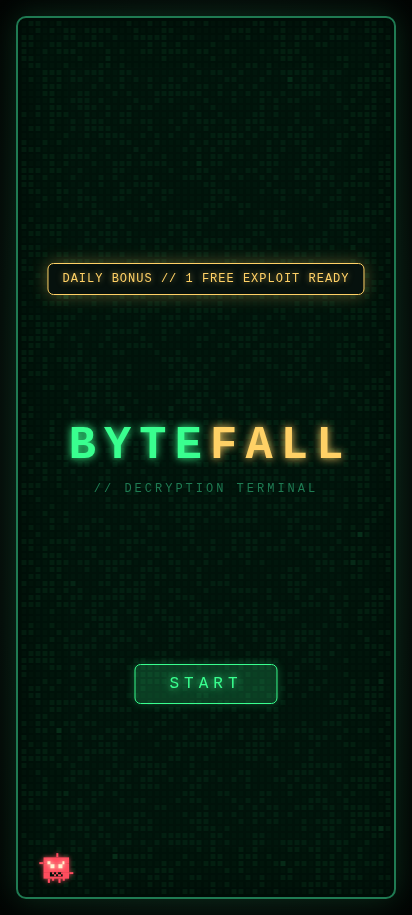
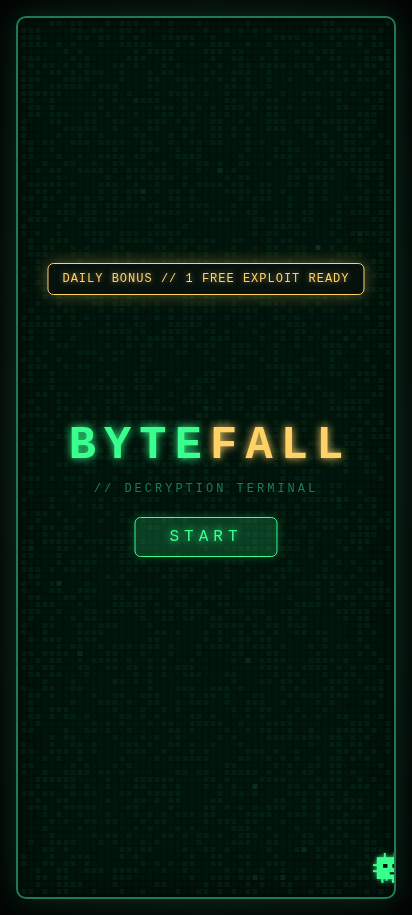
START under the tagline; wanderer fixes
START now sits as far under the tagline as the tagline sits under the
title, measured on the drawn letters so it holds in every font.

Wanderers:
- The game card's bots wait while the start screen covers the card.
- Spots avoid bots standing and bots already headed somewhere, with
  fallbacks beside the others, so four bots on a narrow card no longer
  stand on top of each other.
- A meeting's shuffle stays on the card.
- Only bots on the card get startled; one walking in keeps coming.
- A start or a poke ends a run, so there is no catch-your-breath after.
- A poked bot no longer keeps shaking if it bolts or departs mid-poke,
  and it isn't picked to leave mid-poke.
- Extra bots leave one at a time, not all at once.
- The lane width is read once a frame, the sim waits while the lane is
  0px wide, and bots standing past a narrowed lane step back in.
v202.

diff --git a/js/wanderers.js b/js/wanderers.js
@@ -50,7 +50,9 @@ function createWanderers(lane, active = () => true) {
   let want = 1 + Math.floor(Math.random() * 4);
   let nextSpawn = performance.now() + 400;
   let nextReroll = performance.now() + rand(8000, 15000);
-  const laneW = () => lane.clientWidth;
+  let nextDepart = 0; // (too many: they go one at a time, not all at once)
+  let width = lane.clientWidth; // (read once a frame: reading it between moves forces a layout)
+  const laneW = () => width;
   const inside = (w) => w.x >= 0 && w.x <= laneW() - SIZE;
 
   // emote: text to show, or true to pick one that fits the face (and the bot)
@@ -64,13 +66,27 @@ function createWanderers(lane, active = () => true) {
     w.emote.textContent = emote;
     w.emote.classList.toggle('show', !!emote);
   }
-  // A spot to stand that isn't on top of anyone standing still
+  // A spot to stand that isn't on top of anyone standing still or already headed somewhere (the
+  // first clear one of a few tries; in a crowd, the one with the most room)
   function freeSpot(w) {
-    for (let k = 0; k < 8; k++) {
-      const x = rand(12, laneW() - SIZE - 12);
-      if (!walkers.some((o) => o !== w && o.state !== 'walk' && Math.abs(o.x - x) < APART)) return x;
+    const taken = walkers.filter((o) => o !== w && !o.leaving).map((o) => (o.state === 'walk' ? o.target : o.x));
+    const hi = Math.max(12, laneW() - SIZE - 12);
+    let best = rand(12, hi);
+    let room = -1;
+    const roomAt = (x) => Math.min(Infinity, ...taken.map((t) => Math.abs(t - x)));
+    for (let k = 0; k < 16; k++) {
+      const x = rand(12, hi);
+      const r = roomAt(x);
+      if (r >= APART) return x;
+      if (r > room) { room = r; best = x; }
     }
-    return rand(12, laneW() - SIZE - 12);
+    // (a crowd on a narrow card: the spots just beside the others, then either end)
+    for (const x of [...taken.flatMap((t) => [t - APART, t + APART]), 12, hi]) {
+      if (x < 12 || x > hi) continue;
+      const r = roomAt(x);
+      if (r > room) { room = r; best = x; }
+    }
+    return best;
   }
 
   function spawn(now) {
@@ -115,7 +131,8 @@ function createWanderers(lane, active = () => true) {
   // Those near a sudden pop, decrypt or bolt face it, startled (cutting any meeting short)
   // A meeting cut short leaves the partner out of range put out: -_-
   function startle(src, now) {
-    const near = (o) => o !== src && !o.leaving && o.state !== 'vanish' && o.state !== 'startled' && Math.abs(o.x - src.x) <= RADIUS;
+    // (only those on the card: one still walking in doesn't freeze out of sight)
+    const near = (o) => o !== src && !o.leaving && o.state !== 'vanish' && o.state !== 'startled' && inside(o) && Math.abs(o.x - src.x) <= RADIUS;
     let startled = 0;
     for (const o of walkers) {
       if (!near(o)) continue;
@@ -134,6 +151,7 @@ function createWanderers(lane, active = () => true) {
       }
       mood(o, 'surprised', pick(['!', '!?', '?!']));
       o.state = 'idle';
+      o.winded = o.running = false; // (a start stops a run: no catching its breath after)
       o.look = src.x > o.x ? 1 : -1;
       o.until = now + rand(1100, 1700);
       o.el.classList.remove('hopping', 'shaking');
@@ -162,6 +180,7 @@ function createWanderers(lane, active = () => true) {
     const id = (w.pokeId = (w.pokeId || 0) + 1);
     const still = () => w.pokeId === id && w.state === 'poked' && !w.gone;
     w.state = 'poked';
+    w.winded = w.running = false;
     w.look = 0;
     w.until = now + 3000;
     mood(w, 'annoyed', pick(['hey!', '-_-', '!!']));
@@ -214,7 +233,9 @@ function createWanderers(lane, active = () => true) {
     w.dir = w.look = target > w.x ? 1 : -1;
     w.state = 'walk';
     w.running = running;
+    w.winded = false; // (only an arrival at a run ends out of breath)
     w.partner = null;
+    w.el.classList.remove('shaking');
   }
   function leave(w, running = false) {
     w.leaving = true;
@@ -223,6 +244,7 @@ function createWanderers(lane, active = () => true) {
   // Spooked: a start (and a !), then off the card at a sprint; anyone near flinches
   function fright(w, now) {
     mood(w, 'scared', pick(['!', '!!', '!?']));
+    w.el.classList.remove('shaking', 'hopping');
     w.state = 'startled';
     w.leaving = true; // (off it goes once the start is over)
     w.until = now + 450;
@@ -240,6 +262,11 @@ function createWanderers(lane, active = () => true) {
     }
     const dt = Math.min(0.05, (now - last) / 1000);
     last = now;
+    width = lane.clientWidth;
+    if (!width) { // (its card is out of sight: wait, rather than walk to spots on a 0px lane)
+      requestAnimationFrame(frame);
+      return;
+    }
     if (now > nextReroll) {
       want = 1 + Math.floor(Math.random() * 4);
       nextReroll = now + rand(8000, 15000);
@@ -252,11 +279,16 @@ function createWanderers(lane, active = () => true) {
     if (staying.length < want && now > nextSpawn) {
       spawn(now);
       nextSpawn = now + rand(1500, 4500);
-    } else if (staying.length > want) {
-      const w = staying.find((x) => x.state !== 'meet');
-      if (w) depart(w, now);
+    } else if (staying.length > want && now > nextDepart) {
+      const w = staying.find((x) => x.state !== 'meet' && x.state !== 'poked');
+      if (w) {
+        depart(w, now);
+        nextDepart = now + rand(1200, 3000);
+      }
     }
     for (const w of walkers) {
+      // (the lane got narrower, say on a turn of the phone: whoever stands past its end steps in)
+      if (w.state !== 'walk' && !w.leaving && w.x > laneW() - SIZE) w.x = Math.max(0, laneW() - SIZE);
       if (w.state === 'walk') {
         const pace = w.running ? 3.4 : 1;
         const step = w.speed * pace * dt * (w.bot === 'glitch' && Math.random() < 0.08 ? 3 : 1); // (GLITCH lurches)
@@ -292,8 +324,8 @@ function createWanderers(lane, active = () => true) {
         // Shuffle to a body's width apart, facing each other
         const o = w.partner;
         if (o) {
-          const want = o.x + (w.x < o.x ? -APART : APART);
-          const gap = want - w.x;
+          const spot = Math.min(laneW() - SIZE, Math.max(0, o.x + (w.x < o.x ? -APART : APART))); // (never off the card)
+          const gap = spot - w.x;
           if (Math.abs(gap) > 0.5) w.x += Math.sign(gap) * Math.min(Math.abs(gap), 30 * dt);
           w.look = o.x > w.x ? 1 : -1;
         }
@@ -346,11 +378,12 @@ function createWanderers(lane, active = () => true) {
     if (running || window.matchMedia('(prefers-reduced-motion: reduce)').matches) return;
     running = true;
     last = performance.now();
+    width = lane.clientWidth;
     nextSpawn = last + 400;
     requestAnimationFrame(frame);
   }
   start();
-  // (start: after being switched back on; list / startle: for the dev tests)
-  return { start, list: () => walkers, startle: (w) => startle(w, performance.now()) };
+  // (start: after being switched back on; list / startle / crowd: for the dev tests)
+  return { start, list: () => walkers, startle: (w) => startle(w, performance.now()), crowd: (n) => { want = n; nextReroll = performance.now() + 60000; } };
 
 }

diff --git a/index.html b/index.html
@@ -24,7 +24,7 @@
   } catch (e) {}
 </script>
 <title>BYTEFALL // decryption terminal</title>
-<link rel="stylesheet" href="css/style.css?v=201">
+<link rel="stylesheet" href="css/style.css?v=202">
 </head>
 <body>
   <!-- Dev: TWINKLE BACKGROUND (grid-bg.js): the starlight behind the whole game, off by default -->
@@ -544,31 +544,31 @@
     </div>
   </div>
 
-  <script src="js/unlocks.js?v=201"></script>
-  <script src="js/progress.js?v=201"></script>
-  <script src="js/sfx.js?v=201"></script>
-  <script src="js/music/music-bytefall-theme.js?v=201"></script>
-  <script src="js/music/music-sleep-mode.js?v=201"></script>
-  <script src="js/music/music-brute-force.js?v=201"></script>
-  <script src="js/music/music-deep-web.js?v=201"></script>
-  <script src="js/music/music-zero-day.js?v=201"></script>
-  <script src="js/music/music-system-restore.js?v=201"></script>
-  <script src="js/music/music-night-drive.js?v=201"></script>
-  <script src="js/music/music-standby-mode.js?v=201"></script>
-  <script src="js/music/music-core-dump.js?v=201"></script>
-  <script src="js/music/music-handshake.js?v=201"></script>
-  <script src="js/music/music.js?v=201"></script>
-  <script src="js/data/puzzles.js?v=201"></script>
-  <script src="js/data/daily-puzzles.js?v=201"></script>
-  <script src="js/cpu.js?v=201"></script>
-  <script src="js/fx.js?v=201"></script>
-  <script src="js/viz.js?v=201"></script>
-  <script src="js/minibot.js?v=201"></script>
-  <script src="js/wanderers.js?v=201"></script>
-  <script src="js/tutorial.js?v=201"></script>
-  <script src="js/script.js?v=201"></script>
-  <script src="js/grid-bg.js?v=201"></script>
-  <script src="js/player.js?v=201"></script>
-  <script src="js/start.js?v=201"></script>
+  <script src="js/unlocks.js?v=202"></script>
+  <script src="js/progress.js?v=202"></script>
+  <script src="js/sfx.js?v=202"></script>
+  <script src="js/music/music-bytefall-theme.js?v=202"></script>
+  <script src="js/music/music-sleep-mode.js?v=202"></script>
+  <script src="js/music/music-brute-force.js?v=202"></script>
+  <script src="js/music/music-deep-web.js?v=202"></script>
+  <script src="js/music/music-zero-day.js?v=202"></script>
+  <script src="js/music/music-system-restore.js?v=202"></script>
+  <script src="js/music/music-night-drive.js?v=202"></script>
+  <script src="js/music/music-standby-mode.js?v=202"></script>
+  <script src="js/music/music-core-dump.js?v=202"></script>
+  <script src="js/music/music-handshake.js?v=202"></script>
+  <script src="js/music/music.js?v=202"></script>
+  <script src="js/data/puzzles.js?v=202"></script>
+  <script src="js/data/daily-puzzles.js?v=202"></script>
+  <script src="js/cpu.js?v=202"></script>
+  <script src="js/fx.js?v=202"></script>
+  <script src="js/viz.js?v=202"></script>
+  <script src="js/minibot.js?v=202"></script>
+  <script src="js/wanderers.js?v=202"></script>
+  <script src="js/tutorial.js?v=202"></script>
+  <script src="js/script.js?v=202"></script>
+  <script src="js/grid-bg.js?v=202"></script>
+  <script src="js/player.js?v=202"></script>
+  <script src="js/start.js?v=202"></script>
 </body>
 </html>

diff --git a/js/start.js b/js/start.js
@@ -25,6 +25,7 @@
       black.classList.add('on');
       setTimeout(() => {
         screen.hidden = true;
+        if (typeof gameWalkers !== 'undefined') gameWalkers.start(); // (the game card's, held while this was up)
         if (firstTime()) {
           try { localStorage.setItem(INTRO_KEY, '1'); } catch (e) {}
           // The first open: straight into the tutorial (it can be left any time with EXIT)
@@ -48,6 +49,36 @@
 
   const startBtn = document.getElementById('start-btn');
   startBtn.addEventListener('click', start);
+
+  // START sits under the tagline as far as the tagline sits under the title, measured letter to
+  // letter (the drawn letters, not their line boxes, which differ from font to font)
+  const card = screen.querySelector('.start-card');
+  const title = screen.querySelector('.start-title h1');
+  const tagline = screen.querySelector('.start-tagline');
+  const measure = document.createElement('canvas').getContext('2d');
+  function ink(el) {
+    const cs = getComputedStyle(el);
+    measure.font = `${cs.fontStyle} ${cs.fontWeight} ${cs.fontSize} ${cs.fontFamily}`;
+    const m = measure.measureText(el.textContent);
+    const range = document.createRange();
+    range.selectNodeContents(el);
+    const baseline = range.getBoundingClientRect().top + m.fontBoundingBoxAscent;
+    return { top: baseline - m.actualBoundingBoxAscent, bottom: baseline + m.actualBoundingBoxDescent };
+  }
+  function placeStart() {
+    if (screen.hidden || !measure || !('fontBoundingBoxAscent' in TextMetrics.prototype)) return;
+    const head = ink(title);
+    const tag = ink(tagline);
+    const top = tag.bottom + (tag.top - head.bottom) - card.getBoundingClientRect().top - card.clientTop;
+    startBtn.style.top = `${Math.round(top)}px`;
+    startBtn.style.bottom = 'auto';
+  }
+  placeStart();
+  window.addEventListener('resize', placeStart);
+  if (document.fonts) {
+    document.fonts.ready.then(placeStart);
+    document.fonts.addEventListener('loadingdone', placeStart);
+  }
   // While it's up, keys don't reach the game; Enter and Space start
   document.addEventListener('keydown', (e) => {
     if (screen.hidden) return;

diff --git a/dev-tools/audio.html b/dev-tools/audio.html
@@ -284,18 +284,18 @@
   <footer>GENERATED FROM SOURCE &mdash; NO AUDIO FILES, ALL SYNTHESIZED ON PLAY</footer>
 </div>
 
-<script src="../js/sfx.js?v=201"></script>
-<script src="../js/music/music-bytefall-theme.js?v=201"></script>
-<script src="../js/music/music-sleep-mode.js?v=201"></script>
-<script src="../js/music/music-brute-force.js?v=201"></script>
-<script src="../js/music/music-deep-web.js?v=201"></script>
-<script src="../js/music/music-zero-day.js?v=201"></script>
-<script src="../js/music/music-system-restore.js?v=201"></script>
-<script src="../js/music/music-night-drive.js?v=201"></script>
-<script src="../js/music/music-standby-mode.js?v=201"></script>
-<script src="../js/music/music-core-dump.js?v=201"></script>
-<script src="../js/music/music-handshake.js?v=201"></script>
-<script src="../js/viz.js?v=201"></script>
+<script src="../js/sfx.js?v=202"></script>
+<script src="../js/music/music-bytefall-theme.js?v=202"></script>
+<script src="../js/music/music-sleep-mode.js?v=202"></script>
+<script src="../js/music/music-brute-force.js?v=202"></script>
+<script src="../js/music/music-deep-web.js?v=202"></script>
+<script src="../js/music/music-zero-day.js?v=202"></script>
+<script src="../js/music/music-system-restore.js?v=202"></script>
+<script src="../js/music/music-night-drive.js?v=202"></script>
+<script src="../js/music/music-standby-mode.js?v=202"></script>
+<script src="../js/music/music-core-dump.js?v=202"></script>
+<script src="../js/music/music-handshake.js?v=202"></script>
+<script src="../js/viz.js?v=202"></script>
 <script>
 (() => {
   const esc = (s) => String(s).replace(/[&<>"]/g, (c) => ({ '&': '&amp;', '<': '&lt;', '>': '&gt;', '"': '&quot;' }[c]));

diff --git a/js/script.js b/js/script.js
@@ -2771,7 +2771,9 @@ updateButtonsPos();
 // WANDERING BOTS: the CPUs strolling along the bottom of the game card (wanderers.js), on by default
 const wanderersBtn = document.getElementById('wanderers-btn');
 let wanderersOn = storage.get('bytefall-wanderers') !== 'off';
-const gameWalkers = createWanderers(document.getElementById('game-walkers'), () => wanderersOn);
+// (not while the start screen covers the card: start.js starts them when it goes)
+const startScreenUp = () => { const el = document.getElementById('start-screen'); return !!el && !el.hidden && !document.documentElement.classList.contains('no-start'); };
+const gameWalkers = createWanderers(document.getElementById('game-walkers'), () => wanderersOn && !startScreenUp());
 function updateWanderersBtn() {
   wanderersBtn.textContent = `WANDERING BOTS: ${wanderersOn ? 'ON' : 'OFF'}`;
   wanderersBtn.classList.toggle('on', wanderersOn);

diff --git a/README.md b/README.md
@@ -408,7 +408,8 @@ point. It counts toward nothing (no XP, stats, achievements or best score). Pop-
 
 A fresh launch (the app or tab opened anew) opens on the START SCREEN: a card
 filling the screen with the starlight twinkling across it, the BYTEFALL title
-in the middle and a glowing START button below (`js/start.js`). A tap anywhere
+in the middle and a glowing START button below it, as far under the tagline as
+the tagline is under the title (measured letter to letter, in every font; `js/start.js`). A tap anywhere
 else lets the music begin (browsers need one) and leaves you on the screen.
 START (or Enter / Space) fades it to black, then fades into the game, which always starts on
 CLASSIC, Normal. The very first time the game is opened, it fades into the
@@ -423,7 +424,11 @@ Arrivals: 10% pop into view pixelated, 15% come in at a run and stop, tired, to
 catch their breath, the rest walk in. Departures: 5% decrypt away in a burst
 of pixels, 15% get spooked (scared, "!") and bolt, the rest walk off. A pop, a
 decrypt or a bolt startles every bot within 110px (surprised, facing it),
-cutting short any meeting there; a partner out of range is left -_-. Each bot
+cutting short any meeting there; a partner out of range is left -_- (only bots
+on the card react: one still walking in keeps coming). Each picks a spot clear of
+the others standing or already headed somewhere, so even four at once on a
+narrow card stand apart; too many on the card leave one at a time. The game
+card's wanderers wait while the start screen covers it. Each bot
 keeps to its character: GLITCH is never happy, heart-eyed or laughing (nor
 shows EASY's smiling rest face); emotes fit the face (no <3 on a -_-), and the
 mad ones (HARD's angry and INSANE's red-eyed rest faces) and GLITCH never show
